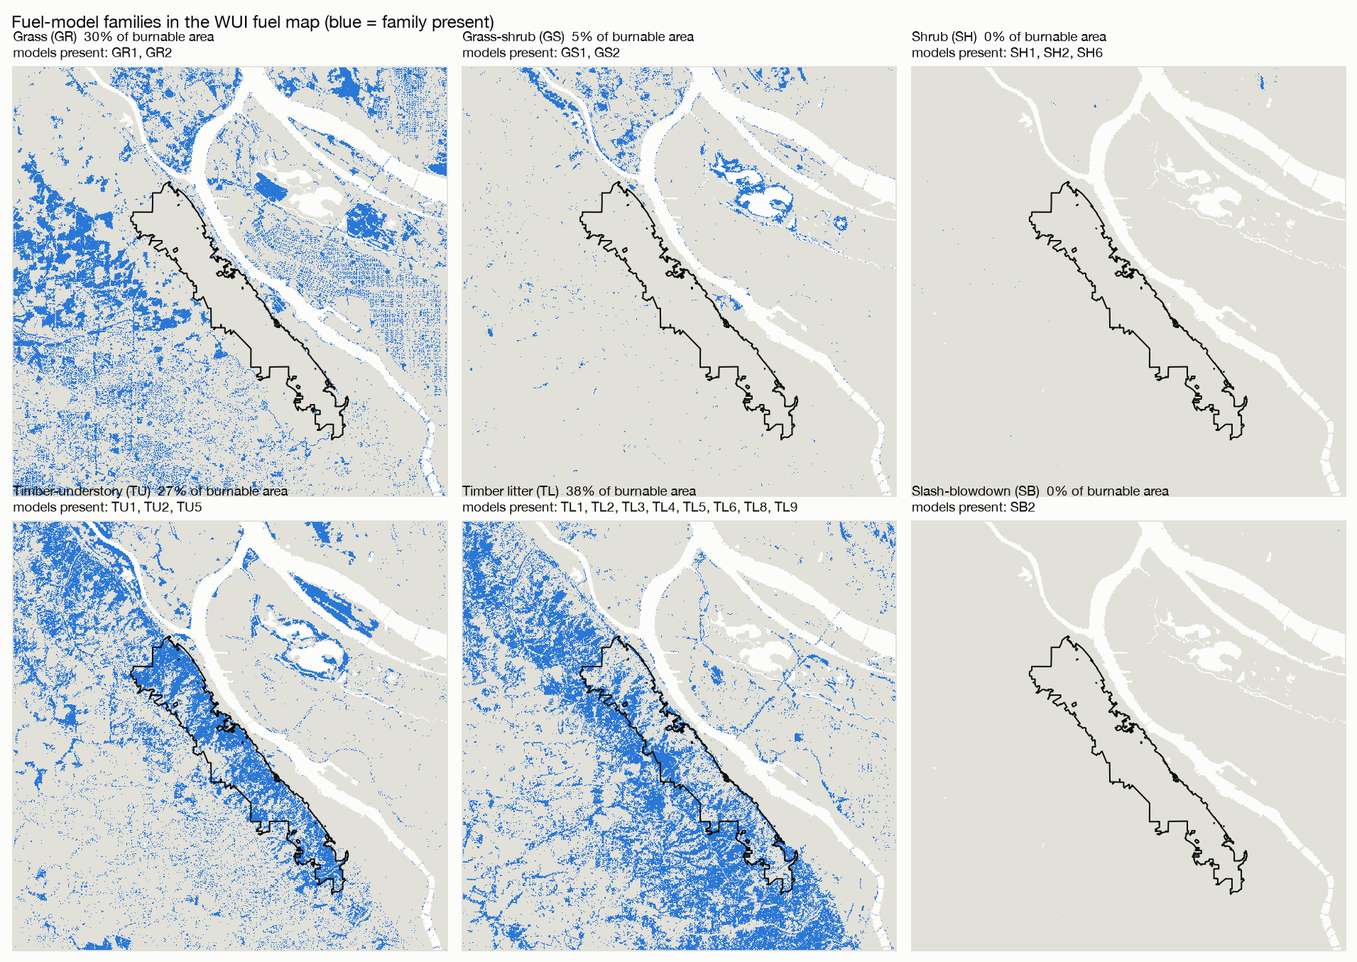
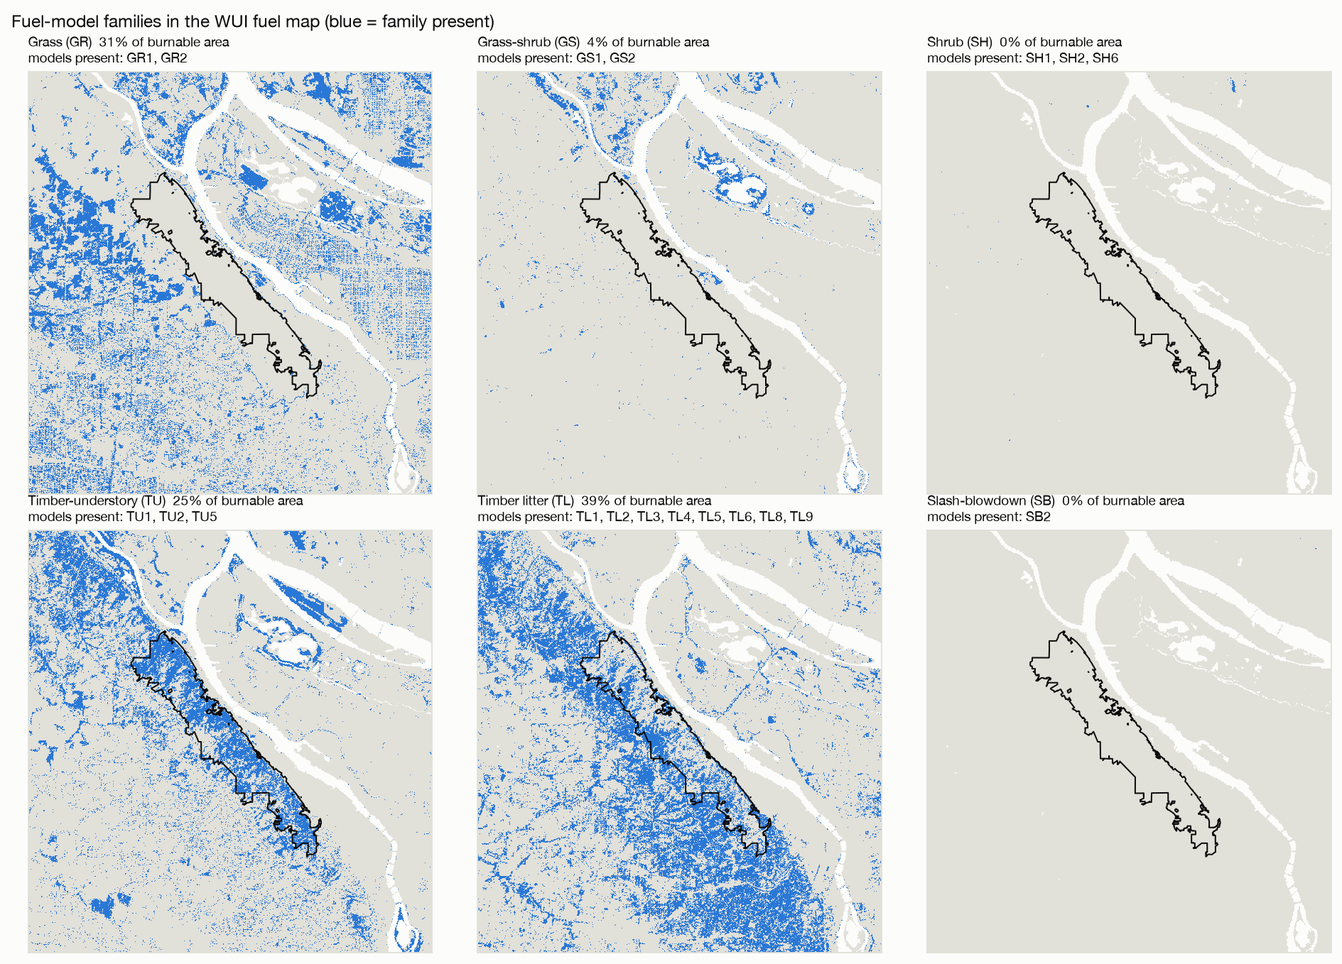
Forest Park Wildfires v3: Terrain for WRF-SFIRE section
- New Section 02: nested WRF domain proposal (1350/450/150 m, 30 m fire mesh),
  USGS 3DEP terrain for atmosphere and fire mesh, ridge profile by resolution,
  slope table, exports and limitations.
- Study area extended ~2 km south / 1 km east; fuel-map figures and numbers
  recomputed.
- Progress log moved to the project intro; fix clipped area column in the
  rule table; section spacing.

Changed region(s): [[0.0, 0.0, 0.9995, 0.9919], [0.8433, 0.124, 0.9995, 0.248]]

diff --git a/projects/forest-park-wildfires/index.html b/projects/forest-park-wildfires/index.html
@@ -30,12 +30,43 @@
           <span class="section-name">Fuel maps</span>
           <span class="pill done">Available</span>
         </a>
-        <div class="section-link upcoming" aria-disabled="true">
+        <a class="section-link" href="#terrain">
           <span class="num">02</span>
+          <span class="section-name">Terrain for WRF-SFIRE</span>
+          <span class="pill done">New</span>
+        </a>
+        <div class="section-link upcoming" aria-disabled="true">
+          <span class="num">03</span>
           <span class="section-name">Fire-spread simulations</span>
           <span class="pill">In progress</span>
         </div>
       </nav>
+      <div class="log" aria-labelledby="log-title">
+          <h3 id="log-title">Progress log</h3>
+          <ol class="log-list">
+            <li>
+              <span class="log-tag new">v3</span>
+              <time datetime="2026-11-04">4 Nov 2026</time>
+              <p><strong>Terrain for WRF-SFIRE.</strong> Proposed three nested model grids around the park and built
+                their terrain from USGS 3DEP instead of the model's default 1 km data (<a href="#terrain">Section 02</a>).
+                The study area grew about 2 km south and 1 km east so the innermost grid has room around the park, so
+                every fuel-map number below was recomputed.</p>
+            </li>
+            <li>
+              <span class="log-tag">v2</span>
+              <time datetime="2026-11-04">4 Nov 2026</time>
+              <p><strong>Roads and terrain.</strong> Open road cells are now firebreaks instead of grass corridors
+                (<a href="#fig-roads">Figure 4</a>), which removed 1,848 ha of false fuel at the time. Added 10 m USGS terrain,
+                slope and the elevation layer WRF-SFIRE needs for its fire grid (<a href="#fig-terrain">Figure 8</a>).</p>
+            </li>
+            <li>
+              <span class="log-tag">v1</span>
+              <time datetime="2026-11-04">4 Nov 2026</time>
+              <p><strong>First combined fuel map.</strong> LANDFIRE fuels in the park, stand-in fuels for the city from
+                pavement and tree canopy, building footprints, and the WRF-SFIRE fuel export.</p>
+            </li>
+          </ol>
+      </div>
     </header>
 
     <main>
@@ -48,24 +79,6 @@
             how dry it has to be to burn. Before any fire can be simulated, the park and the city need that grid.</p>
         </div>
 
-        <div class="log" aria-labelledby="log-title">
-          <h3 id="log-title">Progress log</h3>
-          <ol class="log-list">
-            <li>
-              <span class="log-tag new">v2</span>
-              <time datetime="2026-11-04">4 Nov 2026</time>
-              <p><strong>Roads and terrain.</strong> Open road cells are now firebreaks instead of grass corridors
-                (<a href="#fig-roads">Figure 4</a>), which removed 1,848 ha of false fuel. Added 10 m USGS terrain,
-                slope and the elevation layer WRF-SFIRE needs for its fire grid (<a href="#fig-terrain">Figure 7</a>).</p>
-            </li>
-            <li>
-              <span class="log-tag">v1</span>
-              <time datetime="2026-11-04">4 Nov 2026</time>
-              <p><strong>First combined fuel map.</strong> LANDFIRE fuels in the park, stand-in fuels for the city from
-                pavement and tree canopy, building footprints, and the WRF-SFIRE fuel export.</p>
-            </li>
-          </ol>
-        </div>
 
         <div class="prose two-col">
           <div>
@@ -76,23 +89,23 @@
           </div>
           <div>
             <h3>What I built</h3>
-            <p>A combined map at 30 m resolution. Inside the park, LANDFIRE is used as published. Outside it, each
+            <p>A combined map at 30 m resolution over about 19 × 20 km. Inside the park, LANDFIRE is used as published. Outside it, each
               developed cell gets a stand-in surface fuel based on how much of it is paved and how much tree canopy
               it has. Cells that are mostly buildings stay non-burnable.</p>
           </div>
         </div>
 
         <ul class="stats" aria-label="Summary figures">
-          <li><strong>12,216 → 17,696 ha</strong><span>Burnable area: LANDFIRE as published → adjusted map</span></li>
-          <li><strong>5,484 ha</strong><span>City cells given stand-in fuels</span></li>
-          <li><strong>1,848 ha</strong><span>Open road cells made firebreaks (v2)</span></li>
-          <li><strong>101,211</strong><span>Building footprints mapped at 3 m</span></li>
+          <li><strong>13,007 → 20,633 ha</strong><span>Burnable area: LANDFIRE as published → adjusted map</span></li>
+          <li><strong>7,631 ha</strong><span>City cells given stand-in fuels</span></li>
+          <li><strong>2,551 ha</strong><span>Open road cells made firebreaks</span></li>
+          <li><strong>142,596</strong><span>Building footprints mapped at 3 m</span></li>
         </ul>
 
         <article class="fig" id="fig-fuel-map">
           <figure>
             <button type="button" class="zoom" data-full="img/fuel_map_wui.png" aria-label="Enlarge: the combined fuel map">
-              <img src="img/fuel_map_wui.png" width="1955" height="1522" alt="Fuel map of Forest Park and surrounding Portland, colored by fuel group: grass, shrub and timber-understory, timber litter, pavement, structures and water.">
+              <img src="img/fuel_map_wui.png" width="1922" height="1525" alt="Fuel map of Forest Park and surrounding Portland, colored by fuel group: grass, shrub and timber-understory, timber litter, pavement, structures and water.">
             </button>
           </figure>
           <div class="fig-notes">
@@ -113,7 +126,7 @@
         <article class="fig wide" id="fig-before-after">
           <figure>
             <button type="button" class="zoom" data-full="img/fuel_map_before_after.png" aria-label="Enlarge: before and after">
-              <img src="img/fuel_map_before_after.png" width="1791" height="1046" loading="lazy" alt="Two maps side by side. Left: LANDFIRE as published, where most of the city is non-burnable. Right: the adjusted map with fuels in urban areas.">
+              <img src="img/fuel_map_before_after.png" width="1791" height="1068" loading="lazy" alt="Two maps side by side. Left: LANDFIRE as published, where most of the city is non-burnable. Right: the adjusted map with fuels in urban areas.">
             </button>
           </figure>
           <div class="fig-notes">
@@ -127,7 +140,7 @@
         <article class="fig" id="fig-reassigned">
           <figure>
             <button type="button" class="zoom" data-full="img/urban_reassignment.png" aria-label="Enlarge: cells changed by the urban rules">
-              <img src="img/urban_reassignment.png" width="1853" height="1418" loading="lazy" alt="Map highlighting only the cells changed by the urban fuel rules, colored by new fuel group; all other cells are grey.">
+              <img src="img/urban_reassignment.png" width="1790" height="1423" loading="lazy" alt="Map highlighting only the cells changed by the urban fuel rules, colored by new fuel group; all other cells are grey.">
             </button>
           </figure>
           <div class="fig-notes">
@@ -170,14 +183,14 @@
         <article class="fig wide" id="fig-families">
           <figure>
             <button type="button" class="zoom" data-full="img/fuel_families_small_multiples.png" aria-label="Enlarge: fuel-model families">
-              <img src="img/fuel_families_small_multiples.png" width="1911" height="1355" loading="lazy" alt="Six small maps, one per fuel-model family (grass, grass-shrub, shrub, timber-understory, timber litter, slash-blowdown), each showing where that family occurs.">
+              <img src="img/fuel_families_small_multiples.png" width="1889" height="1358" loading="lazy" alt="Six small maps, one per fuel-model family (grass, grass-shrub, shrub, timber-understory, timber litter, slash-blowdown), each showing where that family occurs.">
             </button>
           </figure>
           <div class="fig-notes">
             <p class="fig-num">Figure 5</p>
             <h3>Fuel-model families</h3>
-            <p>One panel per Scott &amp; Burgan family shows the detail behind the three map colors. Timber litter (38%),
-              grass (30%) and timber-understory (27%) make up most of the burnable area, with grass-shrub at 5%.
+            <p>One panel per Scott &amp; Burgan family shows the detail behind the three map colors. Timber litter (39%),
+              grass (31%) and timber-understory (26%) make up most of the burnable area, with grass-shrub at 4%.
               Shrub and slash fuels are almost absent.</p>
           </div>
         </article>
@@ -185,7 +198,7 @@
         <article class="fig wide" id="fig-inputs">
           <figure>
             <button type="button" class="zoom" data-full="img/inputs_impervious_canopy_buildings.png" aria-label="Enlarge: rule inputs">
-              <img src="img/inputs_impervious_canopy_buildings.png" width="2405" height="977" loading="lazy" alt="Three maps: NLCD 2021 imperviousness, NLCD 2021 tree canopy, and building footprint cover per 30 m cell.">
+              <img src="img/inputs_impervious_canopy_buildings.png" width="2415" height="978" loading="lazy" alt="Three maps: NLCD 2021 imperviousness, NLCD 2021 tree canopy, and building footprint cover per 30 m cell.">
             </button>
           </figure>
           <div class="fig-notes">
@@ -196,34 +209,18 @@
           </div>
         </article>
 
-        <article class="fig wide" id="fig-terrain">
-          <figure>
-            <button type="button" class="zoom" data-full="img/terrain_elevation_slope.png" aria-label="Enlarge: terrain">
-              <img src="img/terrain_elevation_slope.png" width="1990" height="1042" loading="lazy" alt="Two maps: elevation with shaded relief, and slope in degrees. The Tualatin Mountains ridge runs northwest to southeast through Forest Park, with steep ravines on the river side.">
-            </button>
-          </figure>
-          <div class="fig-notes">
-            <p class="fig-num">Figure 7 · new in v2</p>
-            <h3>Terrain</h3>
-            <p>Fire runs faster uphill, so the model needs the ground shape as well as the fuel. Forest Park sits on the
-              ridge of the Tualatin Mountains, from 12 m at the river to 339 m at the crest. Slopes inside the park have
-              a median of 19°, and the steepest 10% exceed 29°, mostly in the ravines facing the Willamette.</p>
-            <p>Elevation comes from the USGS 3DEP 10 m dataset and is exported as WRF-SFIRE's fire-grid terrain
-              layer (<code>ZSF</code>).</p>
-          </div>
-        </article>
 
         <article class="fig" id="fig-anderson">
           <figure>
             <button type="button" class="zoom" data-full="img/anderson13_area.png" aria-label="Enlarge: WRF-SFIRE fuel categories">
-              <img src="img/anderson13_area.png" width="1350" height="763" loading="lazy" alt="Bar chart of area by Anderson 13 fuel category: no fuel 14,487 ha; closed timber litter 6,388; hardwood litter 2,906; timber grass and understory 2,791; short grass 2,780; timber litter and understory 1,966; brush 865.">
+              <img src="img/anderson13_area.png" width="1350" height="763" loading="lazy" alt="Bar chart of area by Anderson 13 fuel category: no fuel 17,901 ha; closed timber litter 7,839; short grass 3,724; hardwood litter 3,094; timber grass and understory 3,069; timber litter and understory 2,009; brush 898.">
             </button>
           </figure>
           <div class="fig-notes">
-            <p class="fig-num">Figure 8</p>
+            <p class="fig-num">Figure 7</p>
             <h3>Ready for WRF-SFIRE</h3>
             <p>WRF-SFIRE uses the older 13 Anderson fuel models, so the map is also exported in that system,
-              in the binary format its preprocessing step (WPS geogrid) reads, together with the 10 m terrain.
+              in the binary format its preprocessing step (WPS geogrid) reads, together with the 10 m terrain (<a href="#terrain">Section 02</a>).
               Category 14 means "no fuel".</p>
           </div>
         </article>
@@ -238,14 +235,14 @@
                   <tr><th scope="col">Paved</th><th scope="col">Canopy</th><th scope="col">Fuel model</th><th scope="col" class="r">Area (ha)</th></tr>
                 </thead>
                 <tbody>
-                  <tr><td colspan="3">Open road cell (freeway, or ≥ 30% paved with &lt; 40% canopy) → non-burnable</td><td class="r">1,848.1</td></tr>
-                  <tr><td>≥ 60%</td><td>any</td><td>Non-burnable (NB1)</td><td class="r">7,928.9</td></tr>
-                  <tr><td>30–60%</td><td>≥ 40%</td><td>Low-load conifer litter (TL1)</td><td class="r">1,269.9</td></tr>
-                  <tr><td>30–60%</td><td>&lt; 40%</td><td>Short sparse grass (GR1)</td><td class="r">2,250.1</td></tr>
-                  <tr><td>&lt; 30%</td><td>≥ 50%</td><td>Moderate conifer litter (TL3)</td><td class="r">730.6</td></tr>
-                  <tr><td>&lt; 30%</td><td>20–50%</td><td>Timber-grass-shrub (TU1)</td><td class="r">703.4</td></tr>
-                  <tr><td>&lt; 30%</td><td>&lt; 20%</td><td>Low-load grass (GR2)</td><td class="r">530.3</td></tr>
-                  <tr><td colspan="3">Building cover ≥ 50% → non-burnable</td><td class="r">1,130.4</td></tr>
+                  <tr><td colspan="3">Open road cell (freeway, or ≥ 30% paved with &lt; 40% canopy) → non-burnable</td><td class="r">2,550.9</td></tr>
+                  <tr><td>≥ 60%</td><td>any</td><td>Non-burnable (NB1)</td><td class="r">9,988.2</td></tr>
+                  <tr><td>30–60%</td><td>≥ 40%</td><td>Low-load conifer litter (TL1)</td><td class="r">1,981.7</td></tr>
+                  <tr><td>30–60%</td><td>&lt; 40%</td><td>Short sparse grass (GR1)</td><td class="r">3,083.2</td></tr>
+                  <tr><td>&lt; 30%</td><td>≥ 50%</td><td>Moderate conifer litter (TL3)</td><td class="r">983.0</td></tr>
+                  <tr><td>&lt; 30%</td><td>20–50%</td><td>Timber-grass-shrub (TU1)</td><td class="r">941.4</td></tr>
+                  <tr><td>&lt; 30%</td><td>&lt; 20%</td><td>Low-load grass (GR2)</td><td class="r">641.2</td></tr>
+                  <tr><td colspan="3">Building cover ≥ 50% → non-burnable</td><td class="r">1,463.3</td></tr>
                 </tbody>
               </table>
             </div>
@@ -264,11 +261,130 @@
           </div>
         </div>
       </section>
+
+      <section class="block" id="terrain" aria-labelledby="terrain-title">
+        <div class="block-head">
+          <p class="eyebrow">Section 02 · new in v3</p>
+          <h2 id="terrain-title">Terrain for WRF-SFIRE</h2>
+          <p class="lede">WRF-SFIRE needs the shape of the ground twice: once for the atmosphere, where hills steer
+            the wind, and once for the fire, which runs faster uphill. Out of the box, the model's preprocessor uses
+            global terrain at about 1 km, which can't see the park's ravines. I replaced it with USGS 3DEP lidar
+            elevation for both, so the wind and the fire stand on the same ground.</p>
+        </div>
+
+        <article class="fig wide" id="fig-terrain">
+          <figure>
+            <button type="button" class="zoom" data-full="img/terrain_elevation_slope.png" aria-label="Enlarge: terrain">
+              <img src="img/terrain_elevation_slope.png" width="1944" height="1042" loading="lazy" alt="Two maps: elevation with shaded relief, and slope in degrees. The Tualatin Mountains ridge runs northwest to southeast through Forest Park, with steep ravines on the river side.">
+            </button>
+          </figure>
+          <div class="fig-notes">
+            <p class="fig-num">Figure 8</p>
+            <h3>The ground under the park</h3>
+            <p>Fire runs faster uphill, so the model needs the ground shape as well as the fuel. Forest Park sits on the
+              ridge of the Tualatin Mountains, from 12 m at the river to 339 m at the crest. Slopes inside the park have
+              a median of 19°, and the steepest 10% exceed 29°, mostly in the ravines facing the Willamette.</p>
+            <p>This 10 m USGS 3DEP elevation becomes the fire mesh's terrain (<code>ZSF</code>). Rivers in 3DEP are
+              flattened at the water surface (about 2.8 m here), so riverbanks don't get fake cliffs. Four bad cells
+              below sea level at the domain edge were filled from their neighbors.</p>
+          </div>
+        </article>
+
+        <article class="fig wide" id="fig-domains">
+          <figure>
+            <button type="button" class="zoom" data-full="img/wrf_domains.png" aria-label="Enlarge: nested WRF domains">
+              <img src="img/wrf_domains.png" width="1694" height="939" loading="lazy" alt="Two maps. Left: three nested square model domains on shaded terrain around Portland, from 135 km wide down to 16 km, with Mount St. Helens near the top. Right: zoom showing the 16 km inner domain around Forest Park, inside the fuel-data box.">
+            </button>
+          </figure>
+          <div class="fig-notes">
+            <p class="fig-num">Figure 9</p>
+            <h3>Three nested model grids</h3>
+            <p>Weather models zoom in through nested grids, each three times finer than the one around it. The
+              outermost takes weather from a forecast model at 3 km; the innermost runs the fire.</p>
+            <div class="table-wrap">
+              <table>
+                <thead><tr><th scope="col">Grid</th><th scope="col" class="r">Spacing</th><th scope="col" class="r">Cells</th><th scope="col" class="r">Width</th><th scope="col">Role</th></tr></thead>
+                <tbody>
+                  <tr><td>d01</td><td class="r">1,350 m</td><td class="r">100 × 100</td><td class="r">135 km</td><td>Regional wind, including east winds leaving the Columbia Gorge</td></tr>
+                  <tr><td>d02</td><td class="r">450 m</td><td class="r">132 × 132</td><td class="r">59.4 km</td><td>Tualatin Mountains and the Portland basin</td></tr>
+                  <tr><td>d03</td><td class="r">150 m</td><td class="r">108 × 108</td><td class="r">16.2 km</td><td>Wind over the park; hosts the fire</td></tr>
+                  <tr><td>Fire mesh</td><td class="r">30 m</td><td class="r">540 × 540</td><td class="r">16.2 km</td><td>Fire spread, on the fuel map and 10 m terrain</td></tr>
+                </tbody>
+              </table>
+            </div>
+            <p>The inner grid is centered on the park, with 2.7 km between the park and its edge, and sits 1.3 km
+              inside the fuel and terrain data. With the original data box, a grid that size would have run off the
+              data's southern edge, past the park's south tip in NW Portland, so I extended the box.</p>
+          </div>
+        </article>
+
+        <article class="fig wide" id="fig-ridge">
+          <figure>
+            <button type="button" class="zoom" data-full="img/terrain_ridge_profile.png" aria-label="Enlarge: ridge profile at each resolution">
+              <img src="img/terrain_ridge_profile.png" width="1800" height="936" loading="lazy" alt="Line chart of elevation along a 9 km profile across Forest Park, from Washington County over the ridge to the Willamette River and St. Johns. The 10 m and 30 m lines follow every ravine; the 150 m grid keeps the main shape; the 450 m and 1,350 m grids turn the slope into a few large steps and put the river about 80 m up.">
+            </button>
+          </figure>
+          <div class="fig-notes">
+            <p class="fig-num">Figure 10</p>
+            <h3>The same ridge, as each grid sees it</h3>
+            <p>A 9 km cross-section through the middle of the park, perpendicular to the ridge. Each grid averages the
+              ground over its cells:</p>
+            <ul>
+              <li>The <strong>30 m fire mesh</strong> follows the 10 m lidar almost exactly, including the 195 m
+                ravine at 4.1 km.</li>
+              <li>The <strong>150 m</strong> inner atmosphere keeps the main ridge and the river-facing slope.</li>
+              <li>At <strong>1,350 m</strong> the slope becomes a few large steps; the ravine disappears and the
+                Willamette sits about 80 m up, averaged with the hillside.</li>
+            </ul>
+            <p>That's why the fire needs its own fine terrain, and why the wind near the park comes from the 150 m grid.</p>
+          </div>
+        </article>
+
+        <div class="two-col">
+          <div class="prose">
+            <h3>Slopes each grid can resolve</h3>
+            <p>Inside the 16.2 km inner domain. Coarse grids smooth the steep ravine walls away.</p>
+            <div class="table-wrap">
+              <table>
+                <thead><tr><th scope="col">Grid</th><th scope="col" class="r">Relief</th><th scope="col" class="r">Steepest 1%</th><th scope="col" class="r">Max slope</th></tr></thead>
+                <tbody>
+                  <tr><td>Lidar DEM, 10 m</td><td class="r">390 m</td><td class="r">35°</td><td class="r">70°</td></tr>
+                  <tr><td>Fire mesh, 30 m</td><td class="r">389 m</td><td class="r">30°</td><td class="r">56°</td></tr>
+                  <tr><td>d03, 150 m</td><td class="r">378 m</td><td class="r">18°</td><td class="r">29°</td></tr>
+                  <tr><td>d02, 450 m</td><td class="r">352 m</td><td class="r">12°</td><td class="r">16°</td></tr>
+                  <tr><td>d01, 1,350 m</td><td class="r">294 m</td><td class="r">7°</td><td class="r">7°</td></tr>
+                </tbody>
+              </table>
+            </div>
+          </div>
+          <div class="prose">
+            <h3>What's exported for the model</h3>
+            <ul>
+              <li><strong>Atmosphere terrain</strong>: 3DEP at 1 arc-second (about 30 m) over all of d01,
+                6,890 × 4,960 cells from sea level to Mount St. Helens (2,531 m). It agrees with the 10 m data
+                to within 0.06 m on average.</li>
+              <li><strong>Fire terrain</strong>: 3DEP at 10 m over the fuel-map area.</li>
+              <li><strong>Setup files</strong>: a domain configuration and the lookup-table entries that point the
+                model at these files.</li>
+            </ul>
+          </div>
+        </div>
+
+        <div class="prose limits">
+          <h3>Limitations</h3>
+          <ul>
+            <li><strong>Not yet run.</strong> The grids are a proposal. They still need to pass through the model's
+              preprocessor and a test simulation, which may call for terrain smoothing on the 150 m grid.</li>
+            <li><strong>Approximate averaging.</strong> The resolution comparison uses simple block averages; the
+              preprocessor's own averaging will differ slightly.</li>
+          </ul>
+        </div>
+      </section>
     </main>
 
     <footer class="site-footer">
       Data: LANDFIRE LF2025 fuel models FBFM40 and FBFM13 (U.S. Forest Service / USGS); National Land Cover Database
-      2021 land cover, imperviousness, impervious descriptor (roads) and tree canopy (MRLC); USGS 3DEP 1/3 arc-second
+      2021 land cover, imperviousness, impervious descriptor (roads) and tree canopy (MRLC); USGS 3DEP 1/3 and 1 arc-second
       elevation; City of Portland Open Data building footprints and park
       boundary. Fuel models: Scott &amp; Burgan (2005), Anderson (1982). Maps and analysis by Acamaro Cutcher.
     </footer>

diff --git a/projects/catalog.js b/projects/catalog.js
@@ -37,8 +37,8 @@ window.PROJECT_LIBRARY = {
       title: 'Forest Park Wildfires',
       summary: 'How could a fire in Portland’s Forest Park spread into the neighborhoods around it? The first section ' +
         'builds a 30 m wildland–urban fuel map: LANDFIRE fuels inside the park, and stand-in surface fuels for the city ' +
-        'from land-cover imperviousness, tree canopy, roads and 101,211 building footprints, plus 10 m terrain, ' +
-        'exported for the WRF-SFIRE fire–atmosphere model. Fire-spread simulations come next.',
+        'from land-cover imperviousness, tree canopy, roads and 142,596 building footprints. The second sets up nested ' +
+        'WRF-SFIRE model grids and builds their terrain from USGS lidar. Fire-spread simulations come next.',
       disciplines: ['earth'],
       types: ['research'],
       status: 'current',
@@ -49,6 +49,7 @@ window.PROJECT_LIBRARY = {
       links: [
         { label: 'Explore', href: 'forest-park-wildfires/index.html', icon: 'fa-arrow-right', primary: true },
         { label: 'Fuel maps', href: 'forest-park-wildfires/index.html#fuel-maps', icon: 'fa-map' },
+        { label: 'Terrain', href: 'forest-park-wildfires/index.html#terrain', icon: 'fa-mountain' },
       ],
     },
     {

diff --git a/projects/forest-park-wildfires/style.css b/projects/forest-park-wildfires/style.css
@@ -209,3 +209,10 @@ code { font: 0.9em ui-monospace, "SF Mono", Menlo, monospace; background: var(--
   .log-list li { grid-template-columns: auto 1fr; }
   .log-list p { grid-column: 1 / -1; }
 }
+
+/* ---------- v3: section spacing, wrapping table notes ---------- */
+main { display: grid; gap: 56px; }
+.block + .block { border-top: 1px solid var(--grid); padding-top: 40px; }
+td[colspan] { white-space: normal; color: var(--text-secondary); }
+td { vertical-align: top; }
+.fig-notes td:last-child { white-space: normal; min-width: 14em; }
